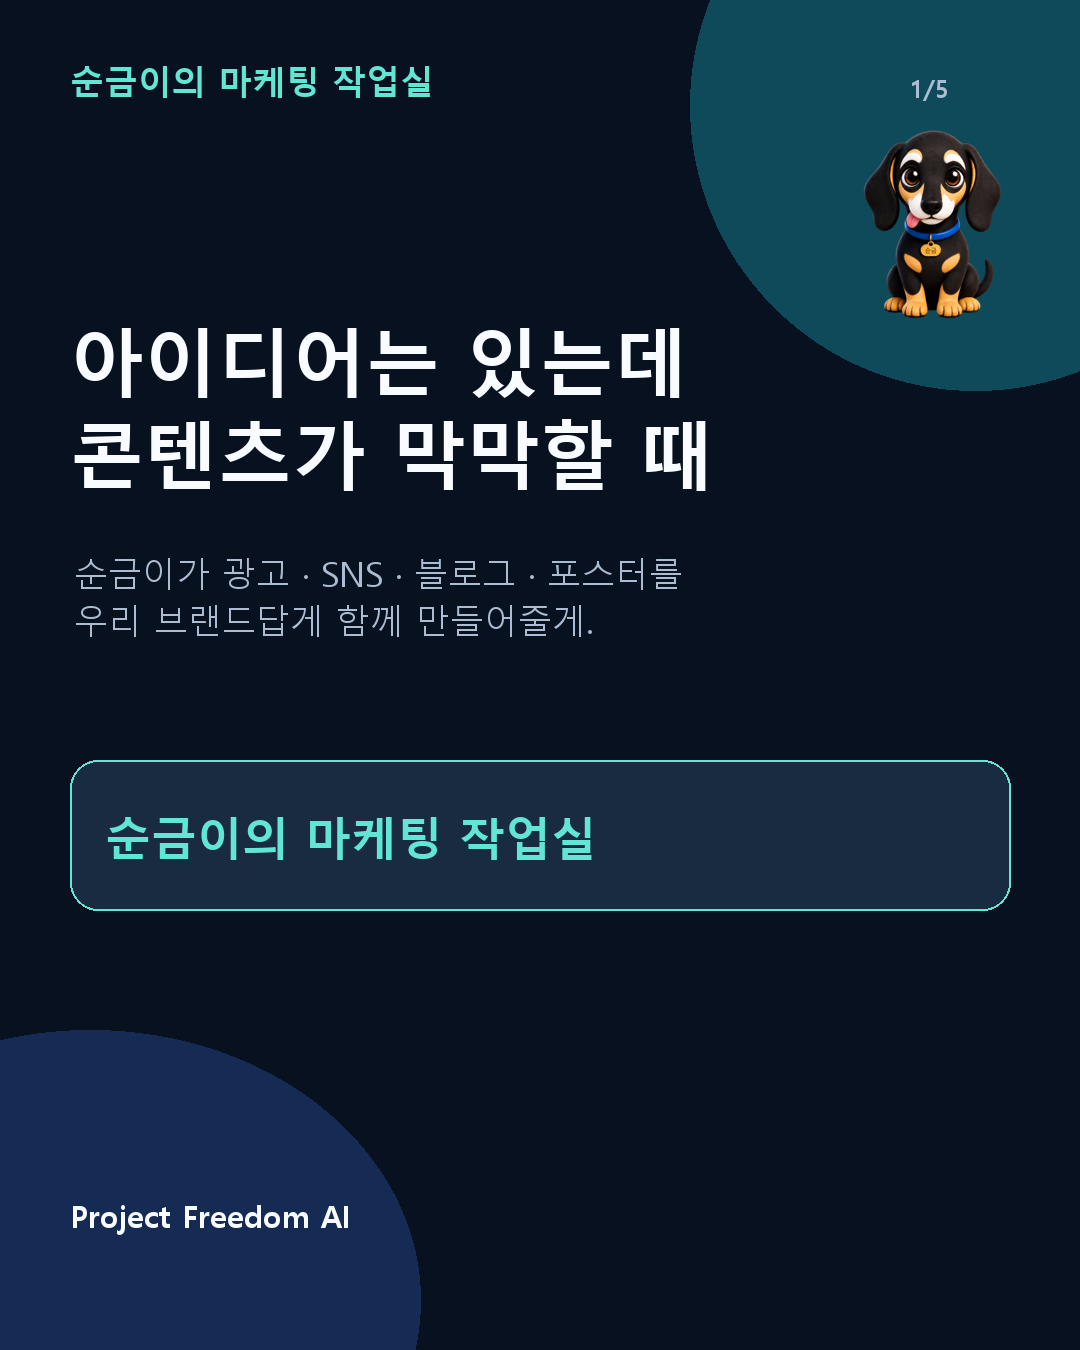
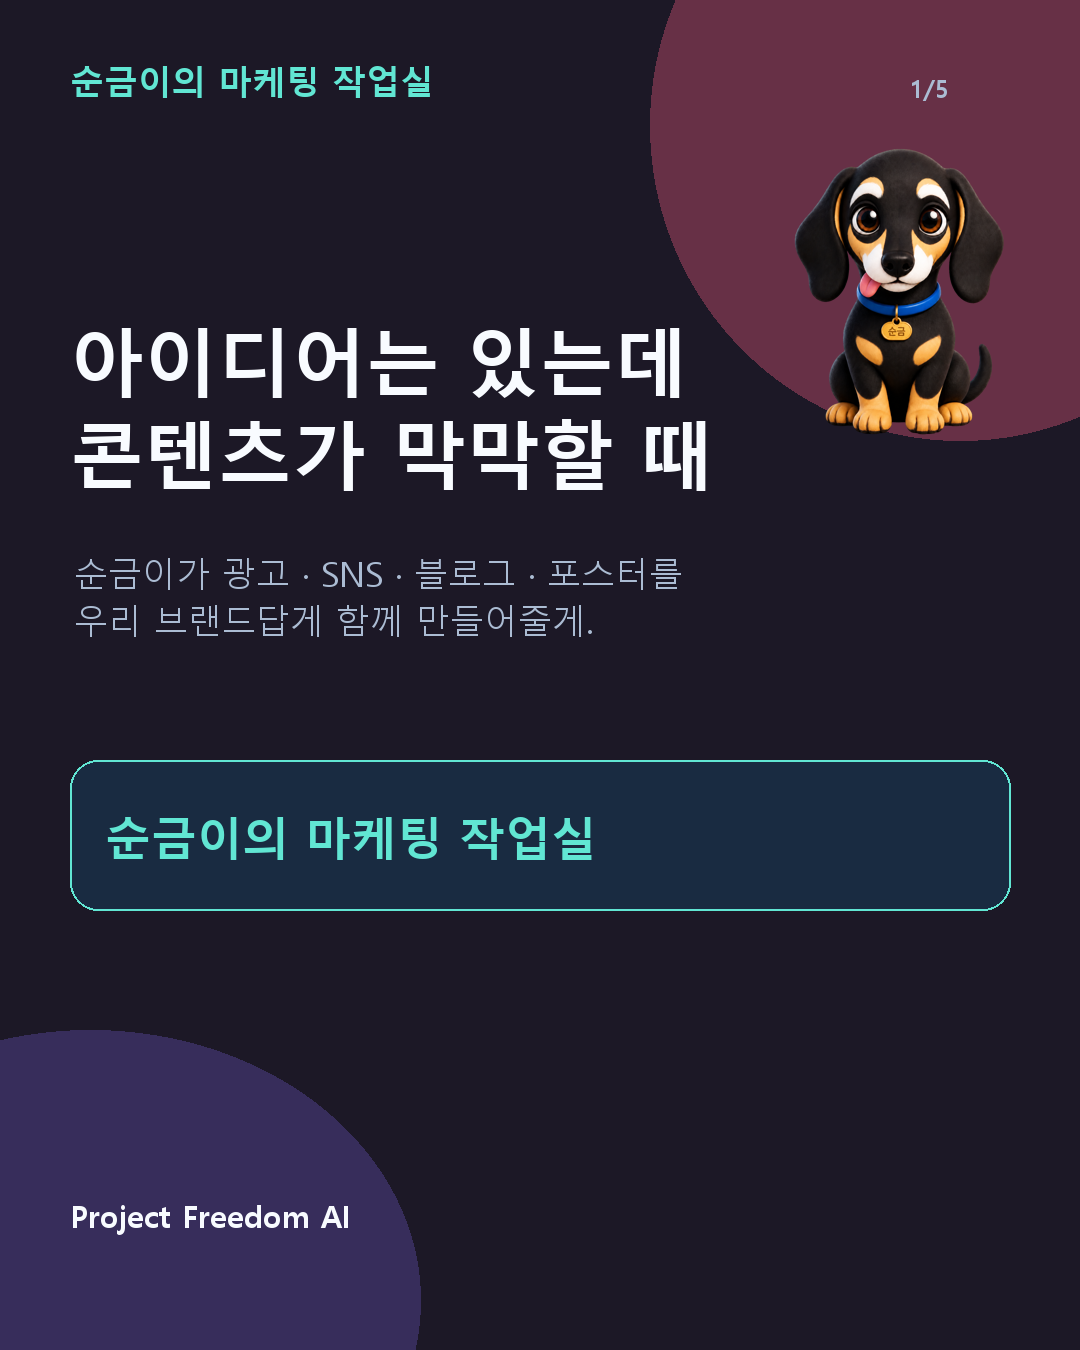
Refine carousel with larger Sungeum hero

Changed region(s): [[0.5806, 0.0, 1.0, 0.3422], [0.0, 0.7467, 0.3972, 1.0]]

diff --git a/static/showcase/sungeum-marketing-workspace-carousel/preview.html b/static/showcase/sungeum-marketing-workspace-carousel/preview.html
@@ -1,0 +1,12 @@
+<!doctype html>
+<meta charset="utf-8">
+<title>순금이의 마케팅 작업실 · Instagram carousel</title>
+<style>body{margin:0;background:#101827;color:#fff;font-family:Arial,sans-serif;text-align:center}h1{font-size:24px;margin:24px}main{display:grid;grid-template-columns:repeat(2,minmax(280px,540px));gap:24px;justify-content:center;padding:0 24px 40px}img{width:100%;height:auto;border-radius:16px;box-shadow:0 12px 36px #0008}@media(max-width:800px){main{grid-template-columns:1fr}}</style>
+<h1>순금이의 마케팅 작업실 · Instagram carousel</h1>
+<main>
+  <img src="slide-01.png" alt="1장">
+  <img src="slide-02.png" alt="2장">
+  <img src="slide-03.png" alt="3장">
+  <img src="slide-04.png" alt="4장">
+  <img src="slide-05.png" alt="5장">
+</main>

diff --git a/scripts/build_sungeum_marketing_workspace_carousel.py b/scripts/build_sungeum_marketing_workspace_carousel.py
@@ -5,7 +5,7 @@ ROOT = Path(__file__).resolve().parents[1]
 OUT = ROOT / "static/showcase/sungeum-marketing-workspace-carousel"
 OUT.mkdir(parents=True, exist_ok=True)
 W, H = 1080, 1350
-BG = (7, 17, 31)
+BG = (28, 24, 38)
 TEAL = (97, 230, 211)
 WHITE = (248, 251, 255)
 MUTED = (171, 188, 211)
@@ -20,13 +20,13 @@ PROOF = [ROOT / "static/showcase/approved-ads-9-0.png", ROOT / "static/showcase/
 def base(slide):
     im = Image.new("RGB", (W, H), BG)
     d = ImageDraw.Draw(im)
-    d.ellipse((690, -180, 1260, 390), fill=(15, 74, 91))
-    d.ellipse((-240, 1030, 420, 1570), fill=(21, 43, 83))
+    d.ellipse((650, -190, 1270, 440), fill=(103, 48, 70))
+    d.ellipse((-240, 1030, 420, 1570), fill=(55, 45, 91))
     d.text((70, 58), "순금이의 마케팅 작업실", font=BOLD(34), fill=TEAL)
     d.text((W - 170, 70), f"{slide}/5", font=BOLD(25), fill=MUTED)
     mascot = Image.open(MASCOT).convert("RGBA")
-    mascot.thumbnail((190, 230))
-    im.paste(mascot, (W - mascot.width - 65, 105), mascot)
+    mascot.thumbnail((280, 350))
+    im.paste(mascot, (W - mascot.width - 55, 110), mascot)
     return im, d
 
 
@@ -57,7 +57,7 @@ def main():
         ("내 로고와 실제 사진까지\n반영해서", "우리 가게와 브랜드에 어울리는 콘텐츠로 완성해.", PROOF[2]),
     ], 2):
         im, d = base(n)
-        d.text((70, 300), headline, font=BOLD(58), fill=WHITE, spacing=10)
+        d.text((70, 300), headline, font=BOLD(48), fill=WHITE, spacing=10)
         d.text((72, 465), body, font=REG(31), fill=MUTED)
         fit_card(im, path, (70, 610, 940, 540))
         d = ImageDraw.Draw(im)
